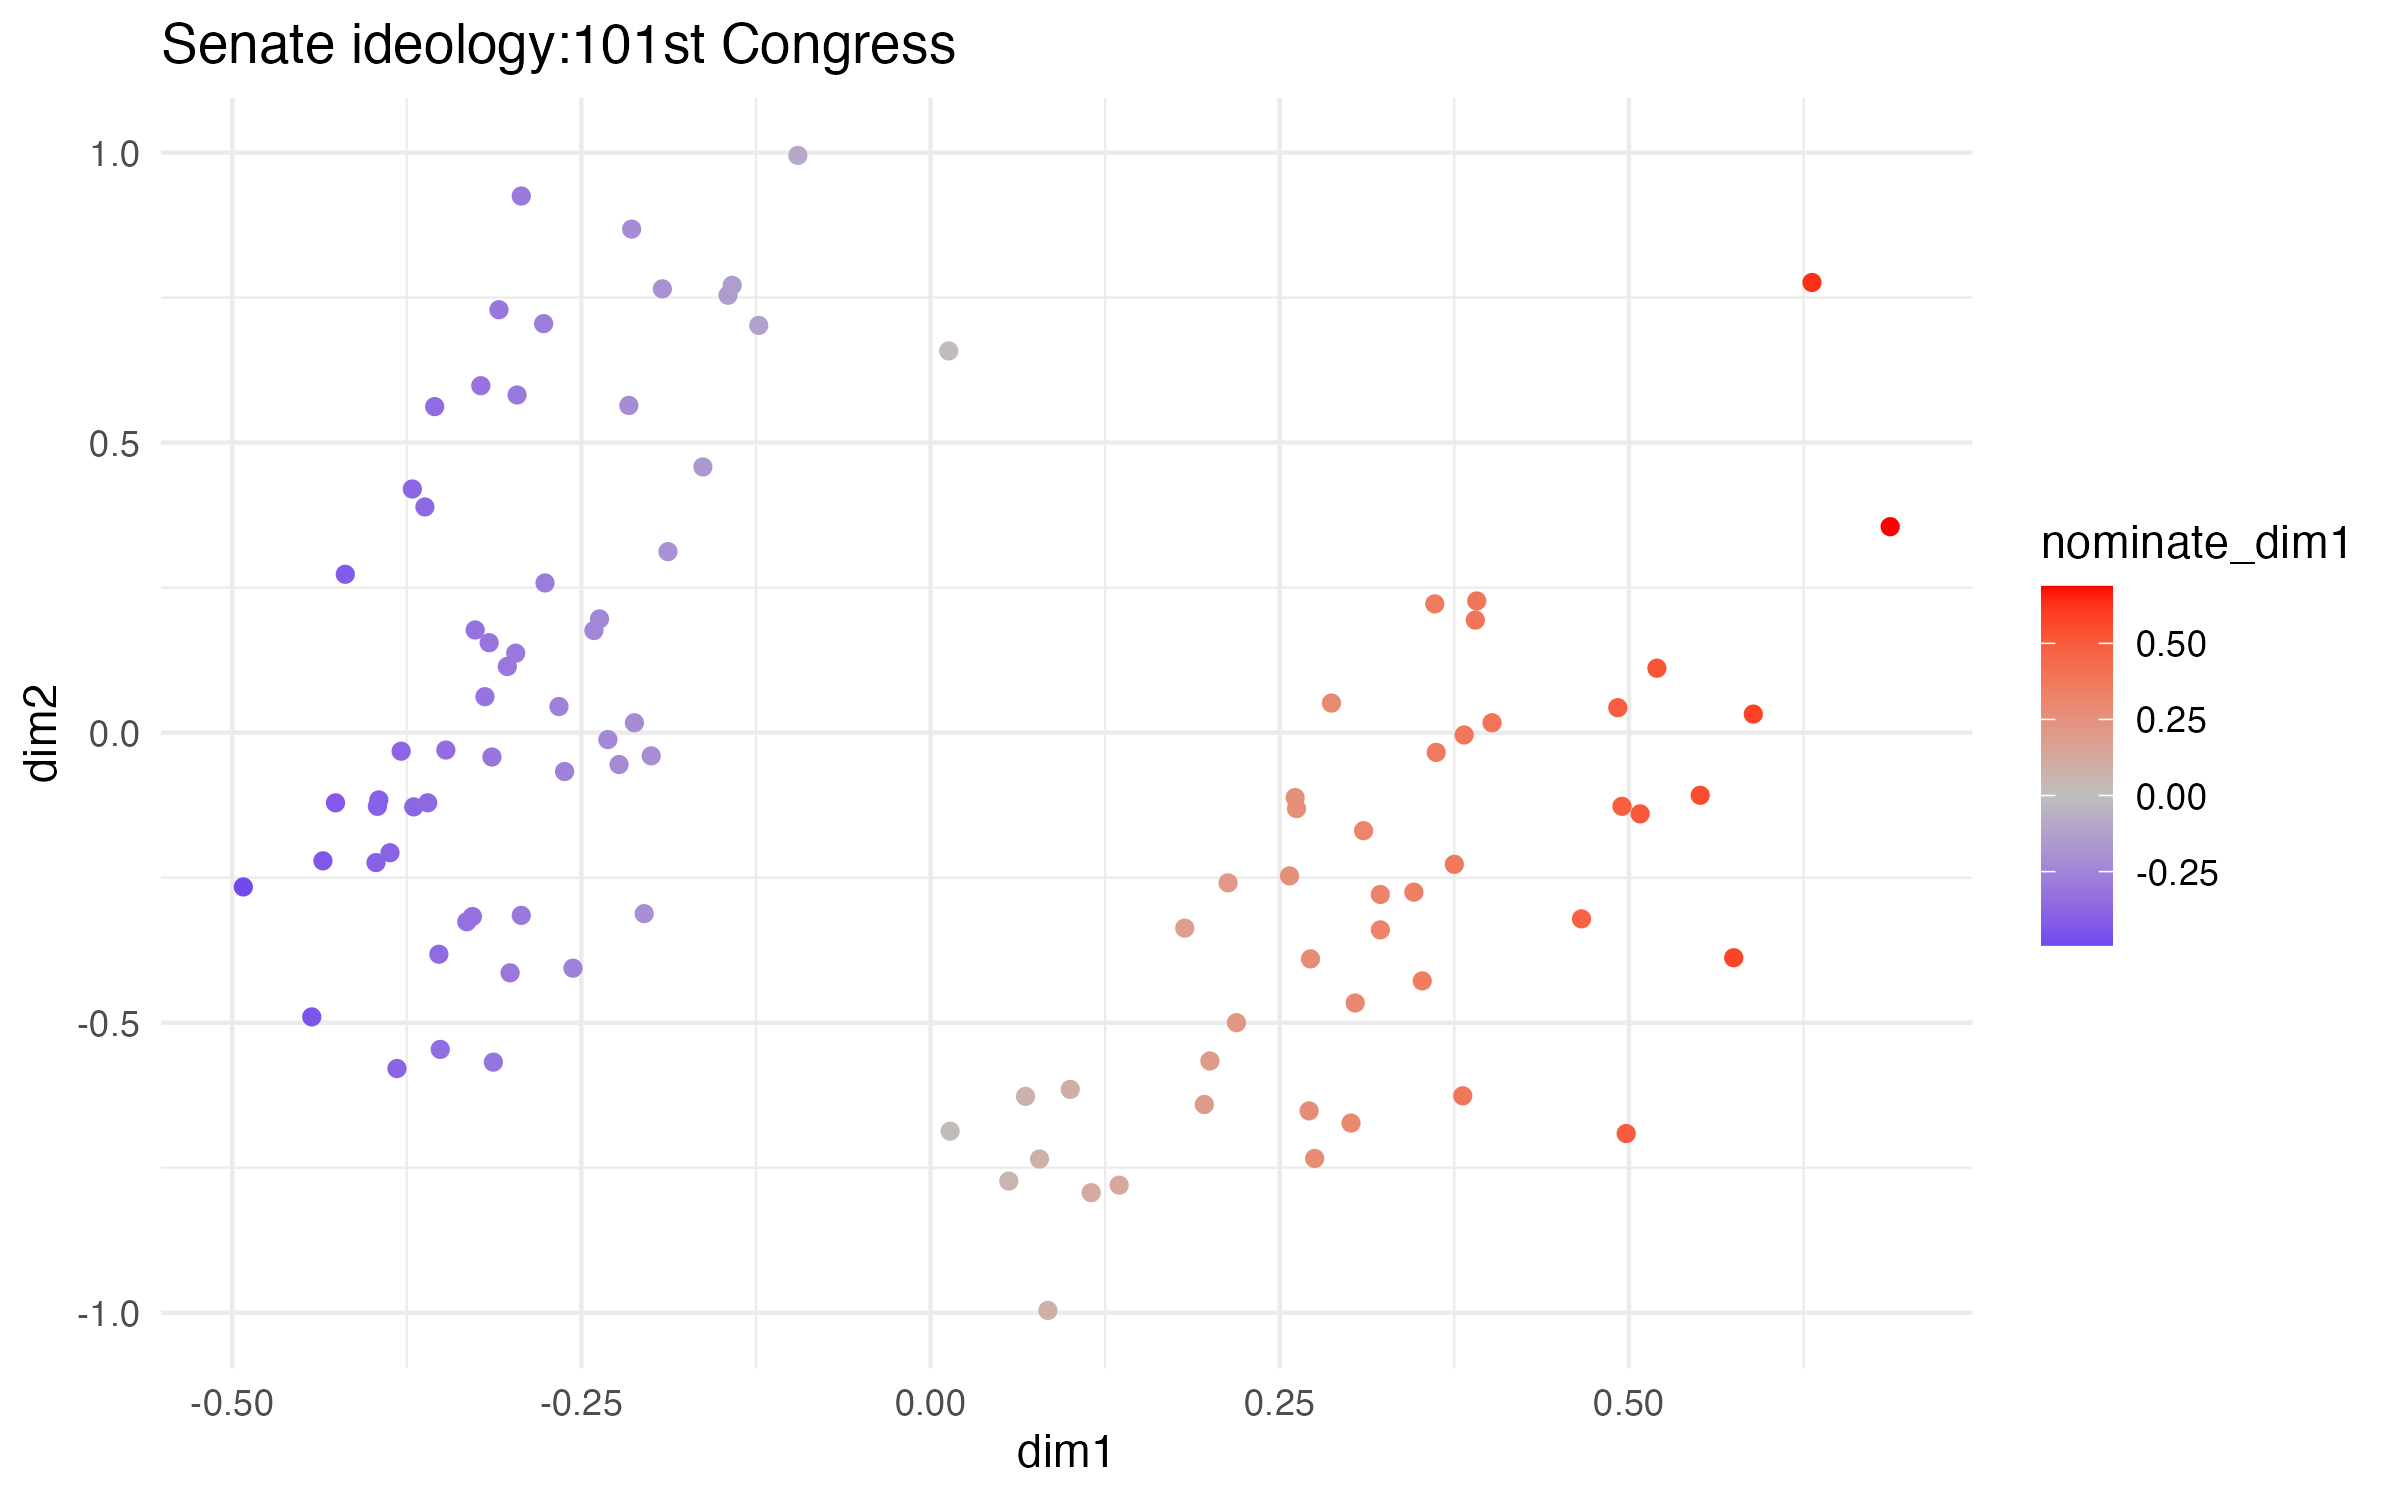
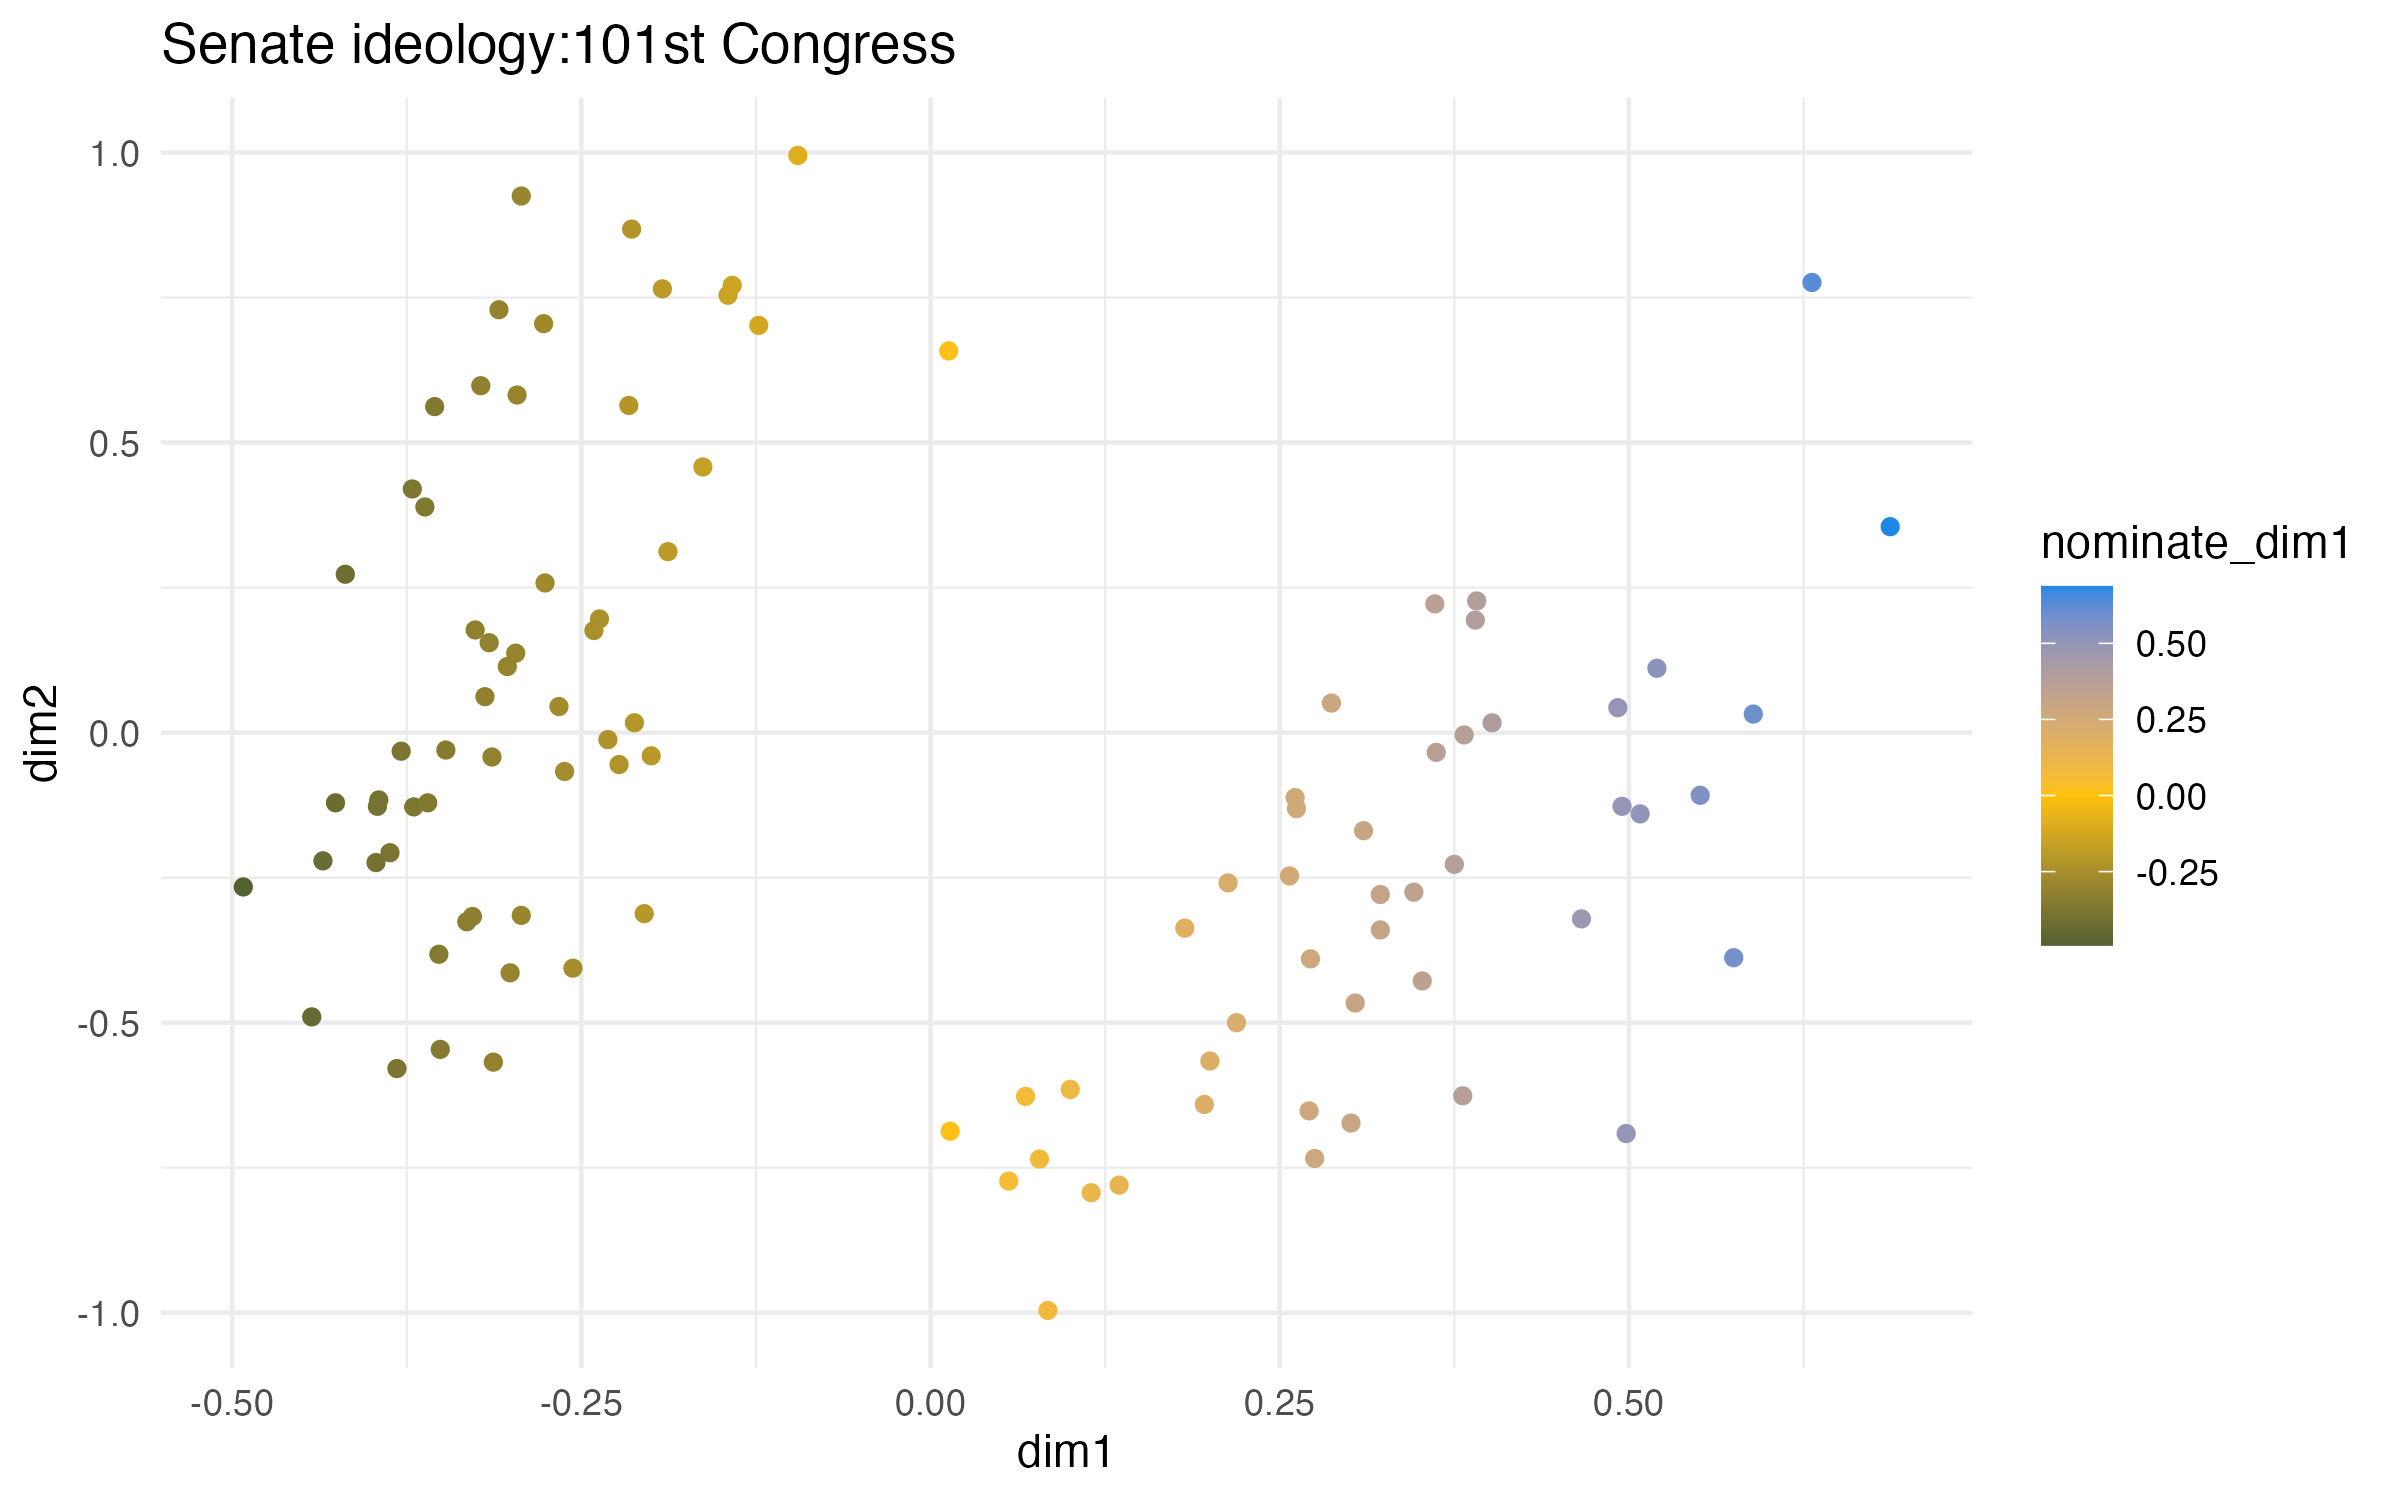
Week 04 Lab Submission

diff --git a/04_week/outputs/writeup.html b/04_week/outputs/writeup.html
@@ -352,21 +352,84 @@ display: none;
 </div>
 
 
-<p>##getwd()<br />
-[1] “/Users/angel/Desktop/PSU/2025-26/Spring ’26/PLSC 498/Problem
+<div id="getwd" class="section level2">
+<h2>getwd()</h2>
+<p>[1] “/Users/angel/Desktop/PSU/2025-26/Spring ’26/PLSC 498/Problem
 Sets/plsc_498/04_week”</p>
-<p>##list.files()<br />
-[1] “04_week.Rproj” “data” “figures”<br />
+</div>
+<div id="list.files" class="section level2">
+<h2>list.files()</h2>
+<p>[1] “04_week.Rproj” “data” “figures”<br />
 [4] “outputs” “problem_set” “scripts”<br />
 [7] “slides”</p>
-<p>##nrow(df)<br />
-[1] 10125</p>
-<p>##ncol(df)<br />
-[1] 22</p>
-<p>##table(df4$congress)<br />
-101 106 111 116 102 102 111 102</p>
-<p>##table(df4$chamber)<br />
-Senate 417</p>
+</div>
+<div id="nrowdf" class="section level2">
+<h2>nrow(df)</h2>
+<p>[1] 10125</p>
+</div>
+<div id="ncoldf" class="section level2">
+<h2>ncol(df)</h2>
+<p>[1] 22</p>
+</div>
+<div id="tabledf4congress" class="section level2">
+<h2>table(df4$congress)</h2>
+<p>101 106 111 116 102 102 111 102</p>
+</div>
+<div id="tabledf4chamber" class="section level2">
+<h2>table(df4$chamber)</h2>
+<p>Senate 417</p>
+</div>
+<div id="nominate_dim1" class="section level2">
+<h2>nominate_dim1</h2>
+<p>summary(df4$nominate_dim1) Min. 1st Qu. Median Mean 3rd Qu. Max.
+-0.74700 -0.31900 -0.12300 0.02934 0.39000 0.89100</p>
+<p>The coded variable <code>nominate_dim1</code> is the variable used in
+the visualizations for representing Senators’ ideologies.
+<code>nominate_dim2</code> is used along the y-axis, not used for
+ideological visualization.</p>
+</div>
+<div id="interpretation" class="section level2">
+<h2>Interpretation</h2>
+<p>In all the plots, there is a diverging color scale. This scale
+utilized red and blue colors on either extreme, with grey being the
+midpoint at 0. The colors directly correspond with ideological leaning,
+with more red points indicating more conservative senators and more blue
+points indicating more liberal senators (the more grey/shaded a point
+appeared, the more moderate they were). These colors change on a
+gradient along the x-axis, as the x-axis “dim1” measures ideologies of
+the senators. These ideologies have a range of [-0.747, 0.891], with
+negative values indiacting more liberal (displaying more blue)
+ideologies, while the positive values are more conservative (displaying
+more red) values. When creating the visualization, I initially had the
+background of the plot as black as to not be too harsh on the eye while
+giving good contrast with the points, but with the grey midpoint on my
+divergin color scale, it made more moderate senators difficult to
+interpret. Due to this, the background remains white so there is enough
+contrast for the points to be easily interpretative. In comparing the
+101st Senate and the 116th Senate, it is clear that the conservative
+senators have become more polarized than their liberal counterparts. The
+liberal senators, for the most part, remain relatively unchanged in
+dispersion and did not see a drastic shift towards extreme liberalistic
+values (<code>dim1 &lt; -0.5</code>). The conservative senators become
+significantly less moderate in the 116th Senate, with a large number of
+senators displaying relatively extreme levels of conservatism
+(<code>dim1 &gt; 0.5</code>).</p>
+</div>
+<div id="accessability" class="section level2">
+<h2>Accessability</h2>
+<p>For the accessibility evaluation, I used the 101st Senate plot, and
+tested it using protanopia and deuteranopia simulations. Under both
+conditions, it was hard to differentiate colors in varying shades of
+red. Because of this, I decided it was best to re-approach the color
+design. I used more colorblind friendly colors (A dark green for more
+liberal senators, light blue for more conservative, with a yellow
+midpoint for moderates). This easily displays changes in color along the
+x-axis, though it loses the value of implicitly associating
+conservatives with the color red and liberals with the color blue. With
+that said, I learned that visualizations carefully balances
+accessibility for all readers with conveying what is truly important in
+a meaningful manner.</p>
+</div>
 
 
 

diff --git a/04_week/outputs/writeup.md b/04_week/outputs/writeup.md
@@ -19,3 +19,18 @@
 ## table(df4$chamber)  
 Senate 
    417 
+   
+## nominate_dim1  
+summary(df4$nominate_dim1)
+   Min.  1st Qu.   Median     Mean  3rd Qu.     Max. 
+-0.74700 -0.31900 -0.12300  0.02934  0.39000  0.89100 
+
+The coded variable `nominate_dim1` is the variable used in the visualizations for representing Senators' ideologies. `nominate_dim2` is used along the y-axis, not used for ideological visualization.
+
+## Interpretation  
+
+In all the plots, there is a diverging color scale. This scale utilized red and blue colors on either extreme, with grey being the midpoint at 0. The colors directly correspond with ideological leaning, with more red points indicating more conservative senators and more blue points indicating more liberal senators (the more grey/shaded a point appeared, the more moderate they were). These colors change on a gradient along the x-axis, as the x-axis "dim1" measures ideologies of the senators. These ideologies have a range of [-0.747, 0.891], with negative values indiacting more liberal (displaying more blue) ideologies, while the positive values are more conservative (displaying more red) values. When creating the visualization, I initially had the background of the plot as black as to not be too harsh on the eye while giving good contrast with the points, but with the grey midpoint on my divergin color scale, it made more moderate senators difficult to interpret. Due to this, the background remains white so there is enough contrast for the points to be easily interpretative. In comparing the 101st Senate and the 116th Senate, it is clear that the conservative senators have become more polarized than their liberal counterparts. The liberal senators, for the most part, remain relatively unchanged in dispersion and did not see a drastic shift towards extreme liberalistic values (`dim1 < -0.5`). The conservative senators become significantly less moderate in the 116th Senate, with a large number of senators displaying relatively extreme levels of conservatism (`dim1 > 0.5`).
+
+## Accessability 
+
+For the accessibility evaluation, I used the 101st Senate plot, and tested it using protanopia and deuteranopia simulations. Under both conditions, it was hard to differentiate colors in varying shades of red. Because of this, I decided it was best to re-approach the color design. I used more colorblind friendly colors (A dark green for more liberal senators, light blue for more conservative, with a yellow midpoint for moderates). This easily displays changes in color along the x-axis, though it loses the value of implicitly associating conservatives with the color red and liberals with the color blue. With that said, I learned that visualizations carefully balances accessibility for all readers with conveying what is truly important in a meaningful manner. 
